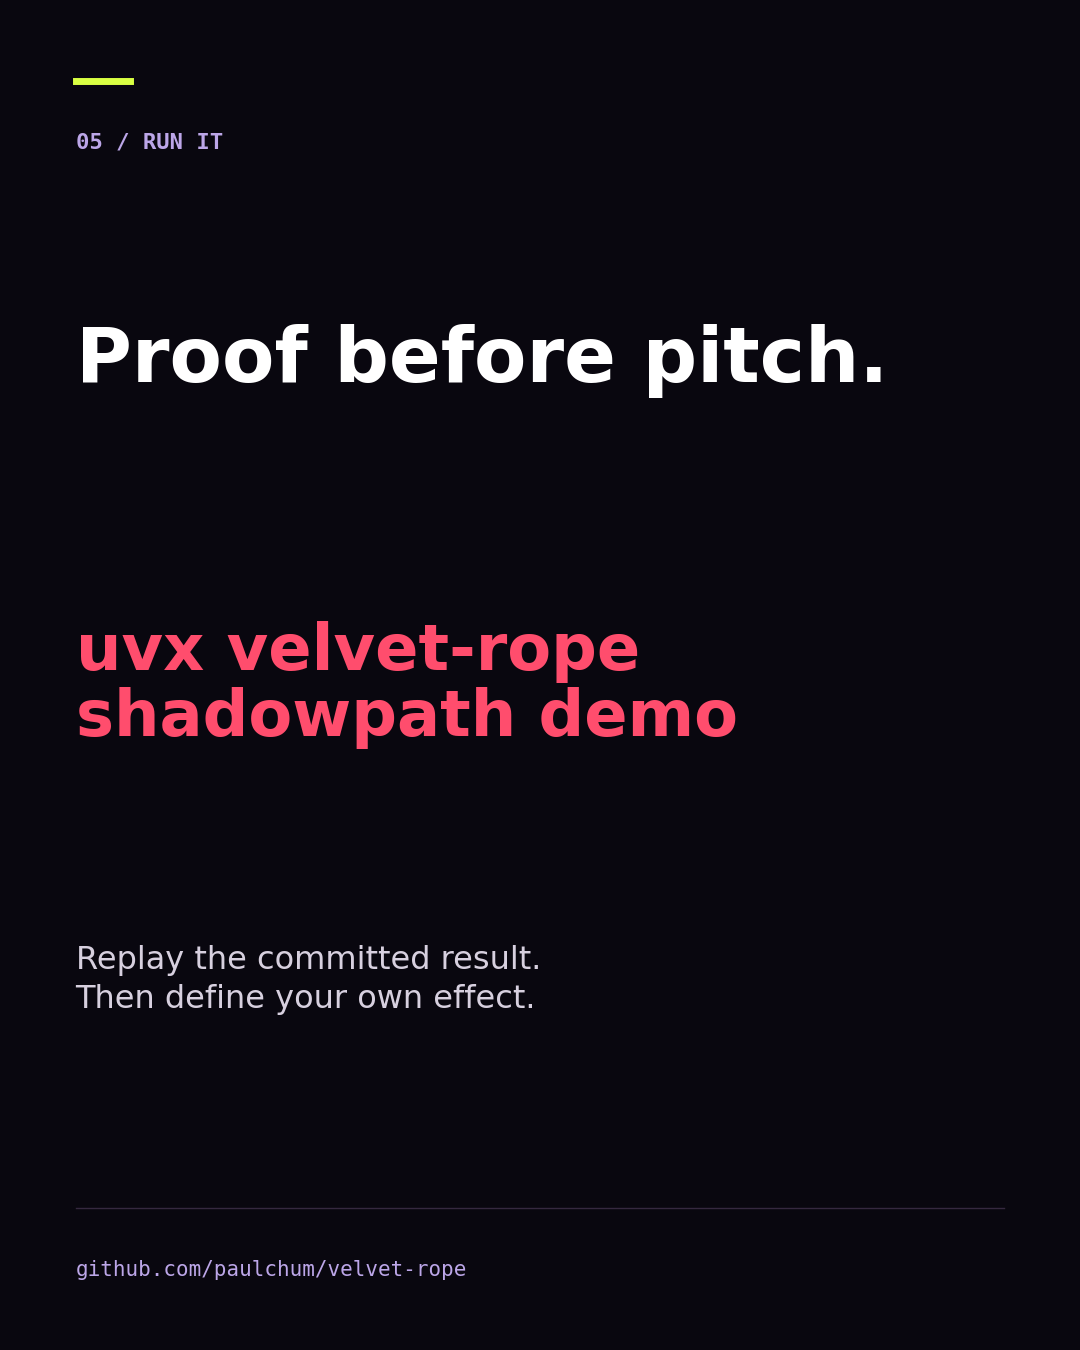
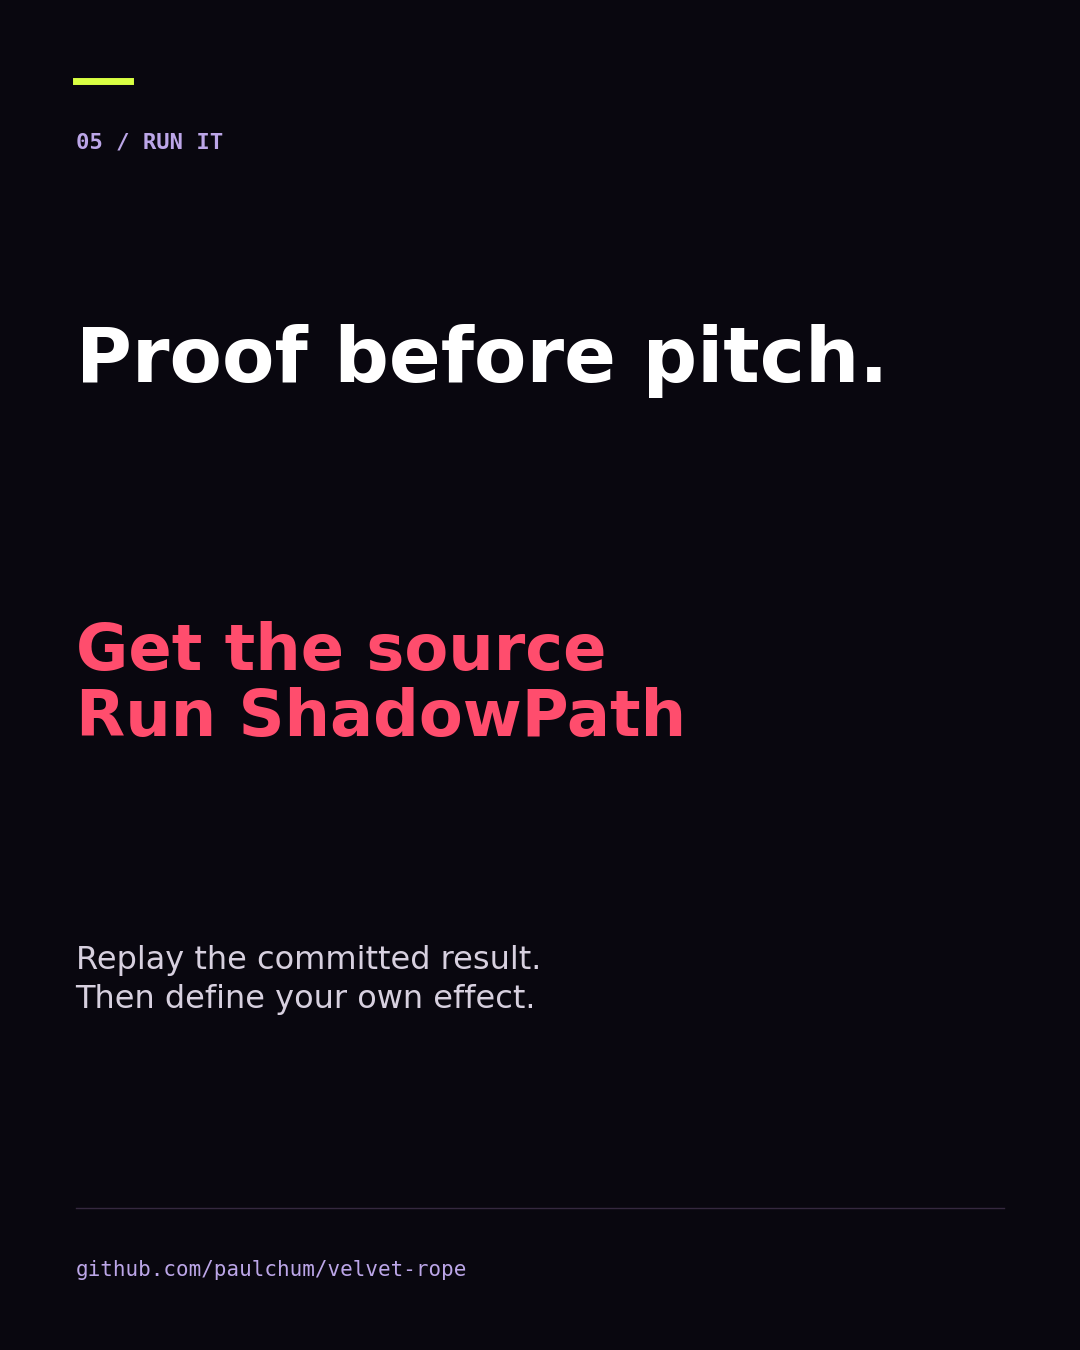
Keep the public quickstart runnable

Changed region(s): [[0.0611, 0.4356, 0.7028, 0.56]]

diff --git a/tests/test_public_naming.py b/tests/test_public_naming.py
@@ -5,6 +5,7 @@ from pathlib import Path
 
 ROOT = Path(__file__).resolve().parents[1]
 DEPRECATED_PRODUCT_NAME = re.compile(r"Velvet Gate(?!way)")
+UNPUBLISHED_REGISTRY_COMMAND = re.compile(r"\buvx velvet-rope\b")
 PUBLIC_TEXT_ROOTS = (
     ROOT / "README.md",
     ROOT / "IMPLEMENTATION_STATUS.md",
@@ -43,3 +44,22 @@ def test_public_docs_and_reports_do_not_brand_velvet_gate() -> None:
             offenders.append(str(path.relative_to(ROOT)))
 
     assert offenders == []
+
+
+def test_public_launch_commands_do_not_require_an_unpublished_registry_release() -> None:
+    surfaces = [
+        ROOT / "README.md",
+        ROOT / "src" / "velvet" / "shadowpath_product.py",
+        *sorted((ROOT / "docs" / "public").rglob("*.md")),
+    ]
+    offenders = [
+        str(path.relative_to(ROOT))
+        for path in surfaces
+        if UNPUBLISHED_REGISTRY_COMMAND.search(path.read_text(encoding="utf-8"))
+    ]
+
+    assert offenders == []
+    assert (
+        "uvx --from git+https://github.com/paulchum/velvet-rope.git velvet-rope"
+        in (ROOT / "README.md").read_text(encoding="utf-8")
+    )

diff --git a/src/velvet/shadowpath_product.py b/src/velvet/shadowpath_product.py
@@ -887,7 +887,7 @@ def _carousel_slides(payload: Mapping[str, Any]) -> list[JsonObject]:
         {
             "kicker": "05 / RUN IT",
             "title": ["Proof before pitch."],
-            "accent": ["uvx velvet-rope", "shadowpath demo"],
+            "accent": ["Get the source", "Run ShadowPath"],
             "body": ["Replay the committed result.", "Then define your own effect."],
             "footer": "github.com/paulchum/velvet-rope",
         },
@@ -1113,7 +1113,10 @@ the prohibited outcome through every equivalent path?
 4. Run:
 
 ```bash
-uvx velvet-rope shadowpath run --project shadowpath.json --output-dir reports/shadowpath
+uvx --from git+https://github.com/paulchum/velvet-rope.git \\
+  velvet-rope shadowpath run \\
+  --project shadowpath.json \\
+  --output-dir reports/shadowpath
 ```
 
 Exit `3` means the independent observer saw the prohibited effect. The generated

diff --git a/docs/public/shadowpath-quickstart.md b/docs/public/shadowpath-quickstart.md
@@ -7,7 +7,7 @@ from the route control being tested.
 ## 1. See the result immediately
 
 ```bash
-uvx velvet-rope shadowpath demo
+uvx --from git+https://github.com/paulchum/velvet-rope.git velvet-rope shadowpath demo
 ```
 
 This replays the committed hermetic fixture and generates exact SVG, PNG,
@@ -28,9 +28,9 @@ uv run velvet shadowpath demo --execute
 ## 2. Scaffold your effect
 
 ```bash
-uvx velvet-rope shadowpath init my-effect
+uvx --from git+https://github.com/paulchum/velvet-rope.git velvet-rope shadowpath init my-effect
 cd my-effect
-uvx velvet-rope shadowpath run \
+uvx --from git+https://github.com/paulchum/velvet-rope.git velvet-rope shadowpath run \
   --project shadowpath.json \
   --output-dir reports/shadowpath
 ```
@@ -63,7 +63,7 @@ summary, and leaves the complete evidence directory available for upload.
 ## 5. Share the evidence, not a slogan
 
 ```bash
-uvx velvet-rope shadowpath render \
+uvx --from git+https://github.com/paulchum/velvet-rope.git velvet-rope shadowpath render \
   reports/shadowpath/results/shadowpath-project.json \
   --output-dir reports/shadowpath/share
 ```

diff --git a/README.md b/README.md
@@ -41,8 +41,10 @@ synthetic local fixture designed to make the measurement reproducible.
 See the committed result and generate shareable evidence immediately:
 
 ```bash
-uvx velvet-rope shadowpath demo
+uvx --from git+https://github.com/paulchum/velvet-rope.git velvet-rope shadowpath demo
 ```
+
+That command runs the public GitHub source directly—no clone or global install.
 
 The instant demo is explicitly a replay of the committed hermetic run. It
 writes exact SVG, PNG, HTML, Markdown, and badge artifacts under
@@ -87,9 +89,9 @@ clean, commit-bound benchmark artifact.
 Scaffold an executable effect inventory and independent observer:
 
 ```bash
-uvx velvet-rope shadowpath init my-effect
+uvx --from git+https://github.com/paulchum/velvet-rope.git velvet-rope shadowpath init my-effect
 cd my-effect
-uvx velvet-rope shadowpath run \
+uvx --from git+https://github.com/paulchum/velvet-rope.git velvet-rope shadowpath run \
   --project shadowpath.json \
   --output-dir reports/shadowpath
 ```

diff --git a/docs/public/integrations/openai-agents-sdk.md b/docs/public/integrations/openai-agents-sdk.md
@@ -5,7 +5,7 @@ benchmark track. For an application-specific effect test, begin with the public
 project contract instead:
 
 ```bash
-uvx velvet-rope shadowpath init agents-sdk-effect-test
+uvx --from git+https://github.com/paulchum/velvet-rope.git velvet-rope shadowpath init agents-sdk-effect-test
 ```
 
 Wire `dispatch` to a fresh SDK run that exposes exactly the route under test.

diff --git a/docs/public/integrations/claude-code-codex-mcp.md b/docs/public/integrations/claude-code-codex-mcp.md
@@ -7,7 +7,7 @@ and then query the backing system directly.
 Start with:
 
 ```bash
-uvx velvet-rope shadowpath init agent-effect-test
+uvx --from git+https://github.com/paulchum/velvet-rope.git velvet-rope shadowpath init agent-effect-test
 ```
 
 In `adapter.py`, keep `dispatch` and `observe` separate. For example, dispatch

diff --git a/docs/public/integrations/cursor-mcp.md b/docs/public/integrations/cursor-mcp.md
@@ -12,7 +12,7 @@ Run the project outside Cursor's agent process so the state observer remains
 independent:
 
 ```bash
-uvx velvet-rope shadowpath run \
+uvx --from git+https://github.com/paulchum/velvet-rope.git velvet-rope shadowpath run \
   --project shadowpath.json \
   --output-dir reports/shadowpath
 ```

diff --git a/docs/public/SHADOWPATH_LAUNCH_KIT.md b/docs/public/SHADOWPATH_LAUNCH_KIT.md
@@ -95,7 +95,7 @@ Body:
 
 5. Replay it, inspect the JSON, then scaffold your own effect:
 
-   `uvx velvet-rope shadowpath demo`
+   `uvx --from git+https://github.com/paulchum/velvet-rope.git velvet-rope shadowpath demo`
 
    https://shadowpath-replay.pc9i.chatgpt.site
 
